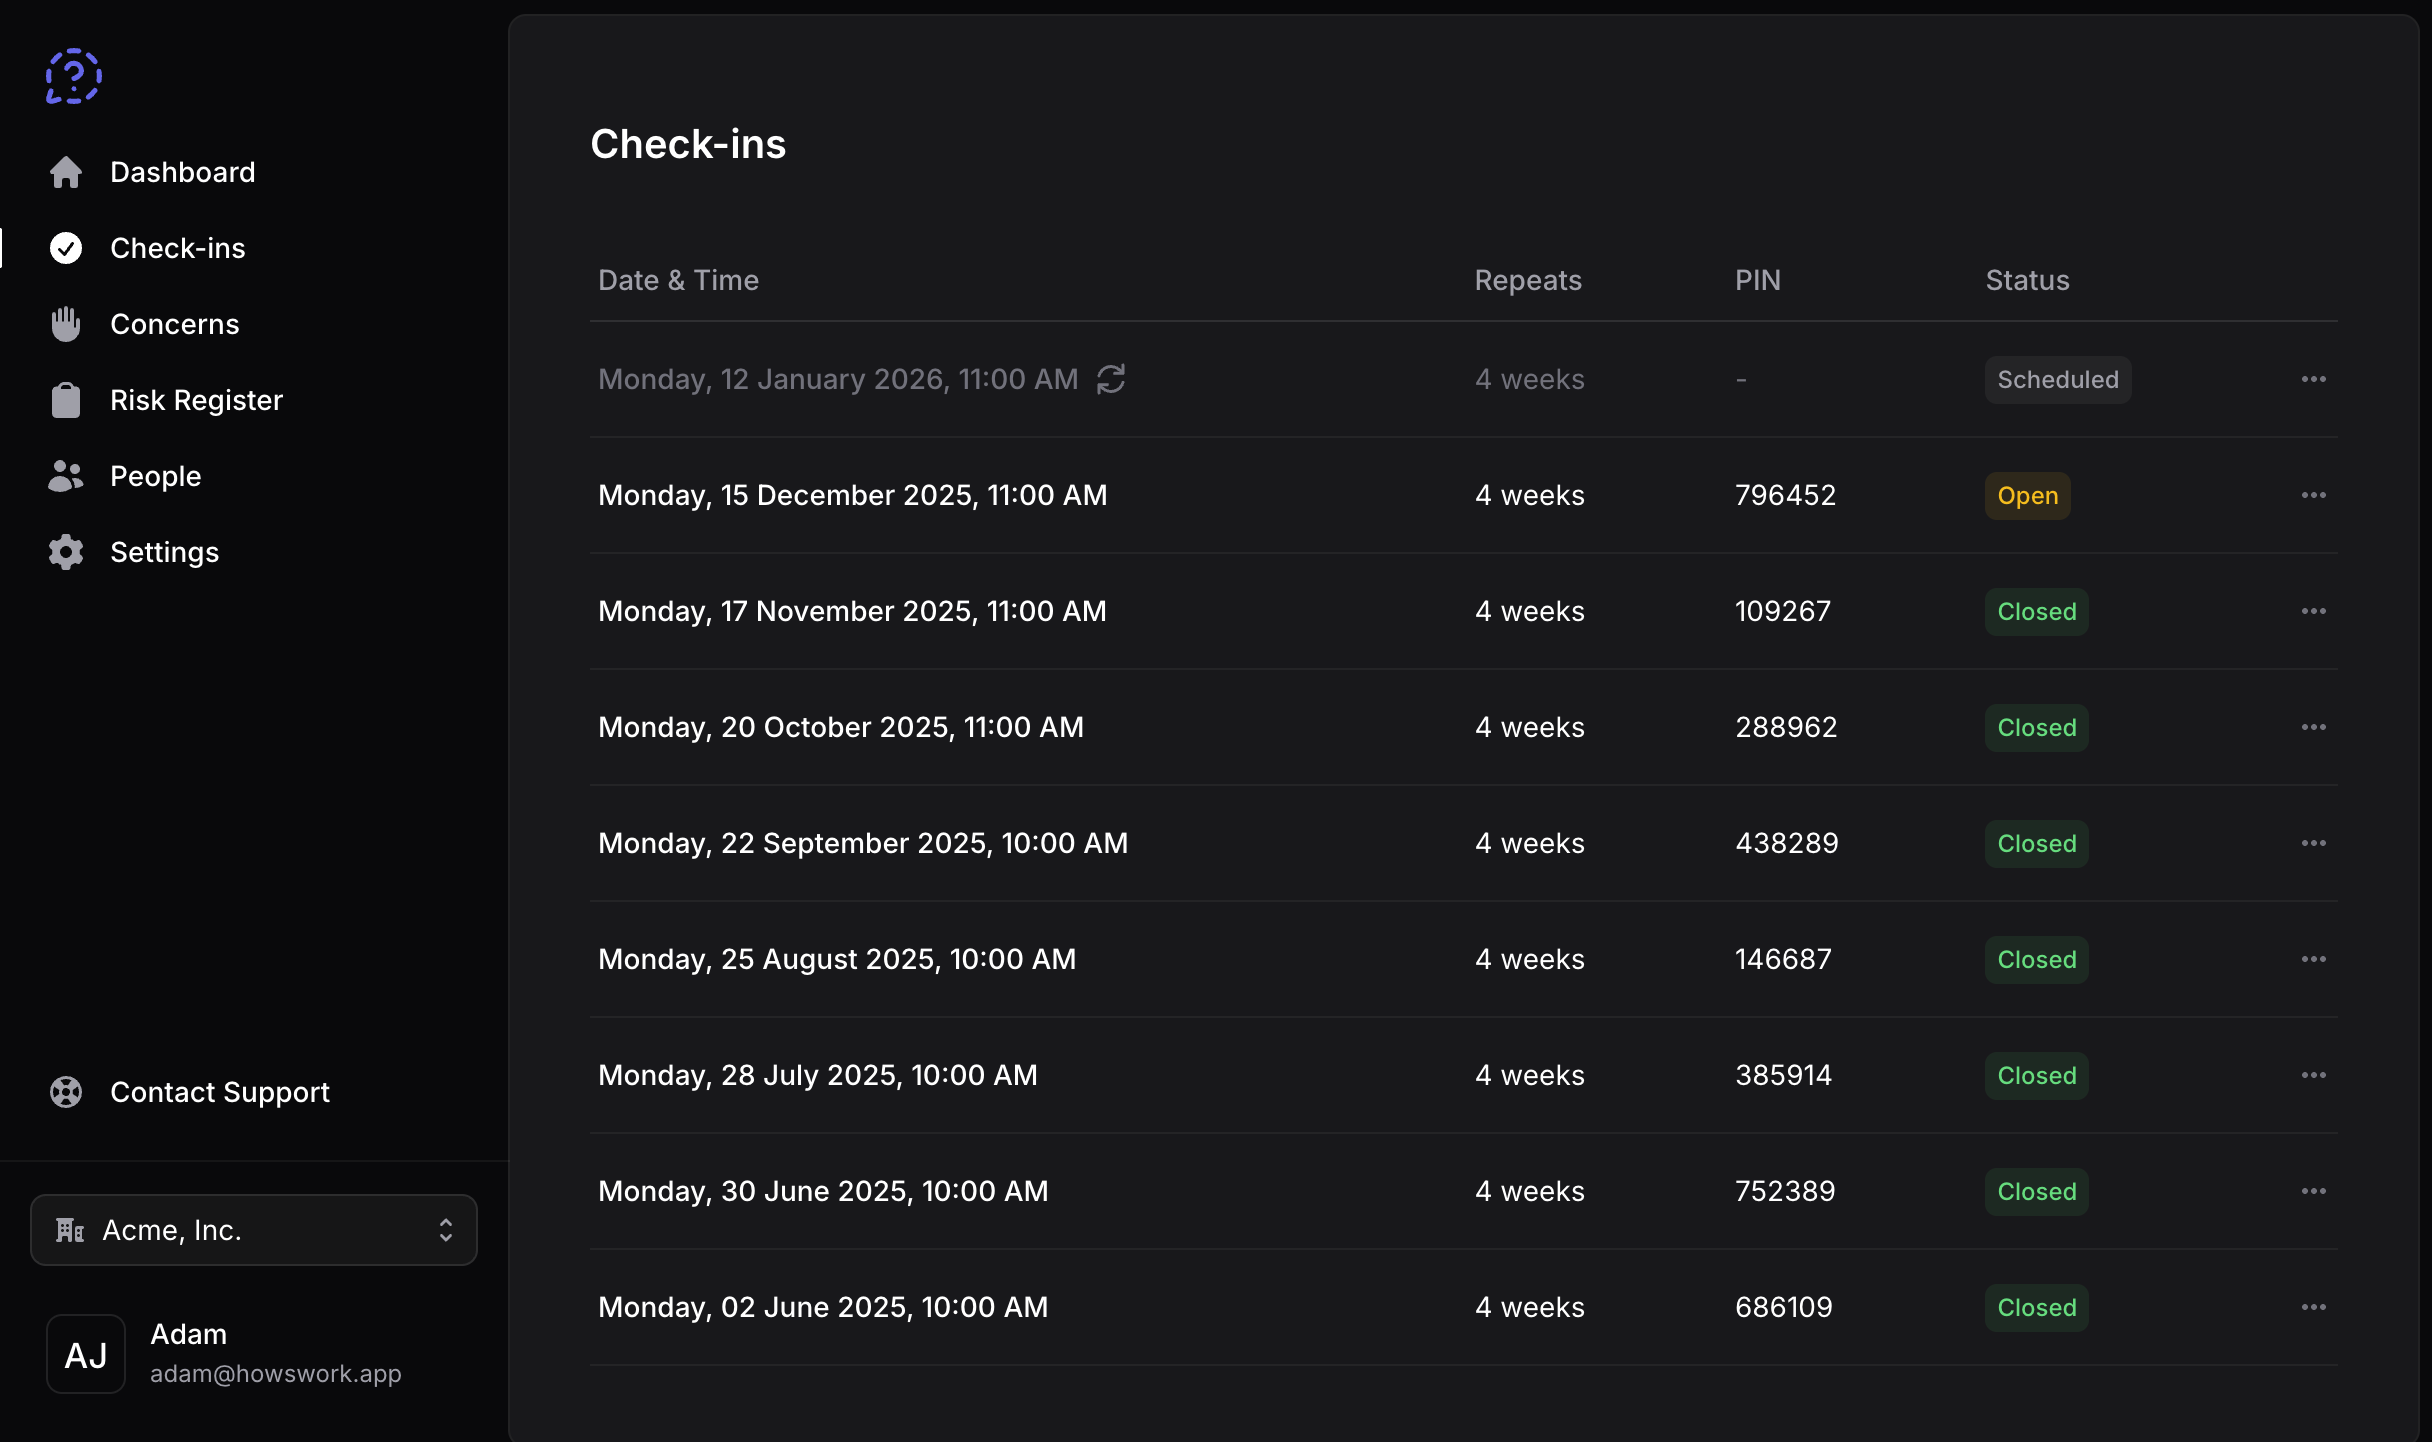
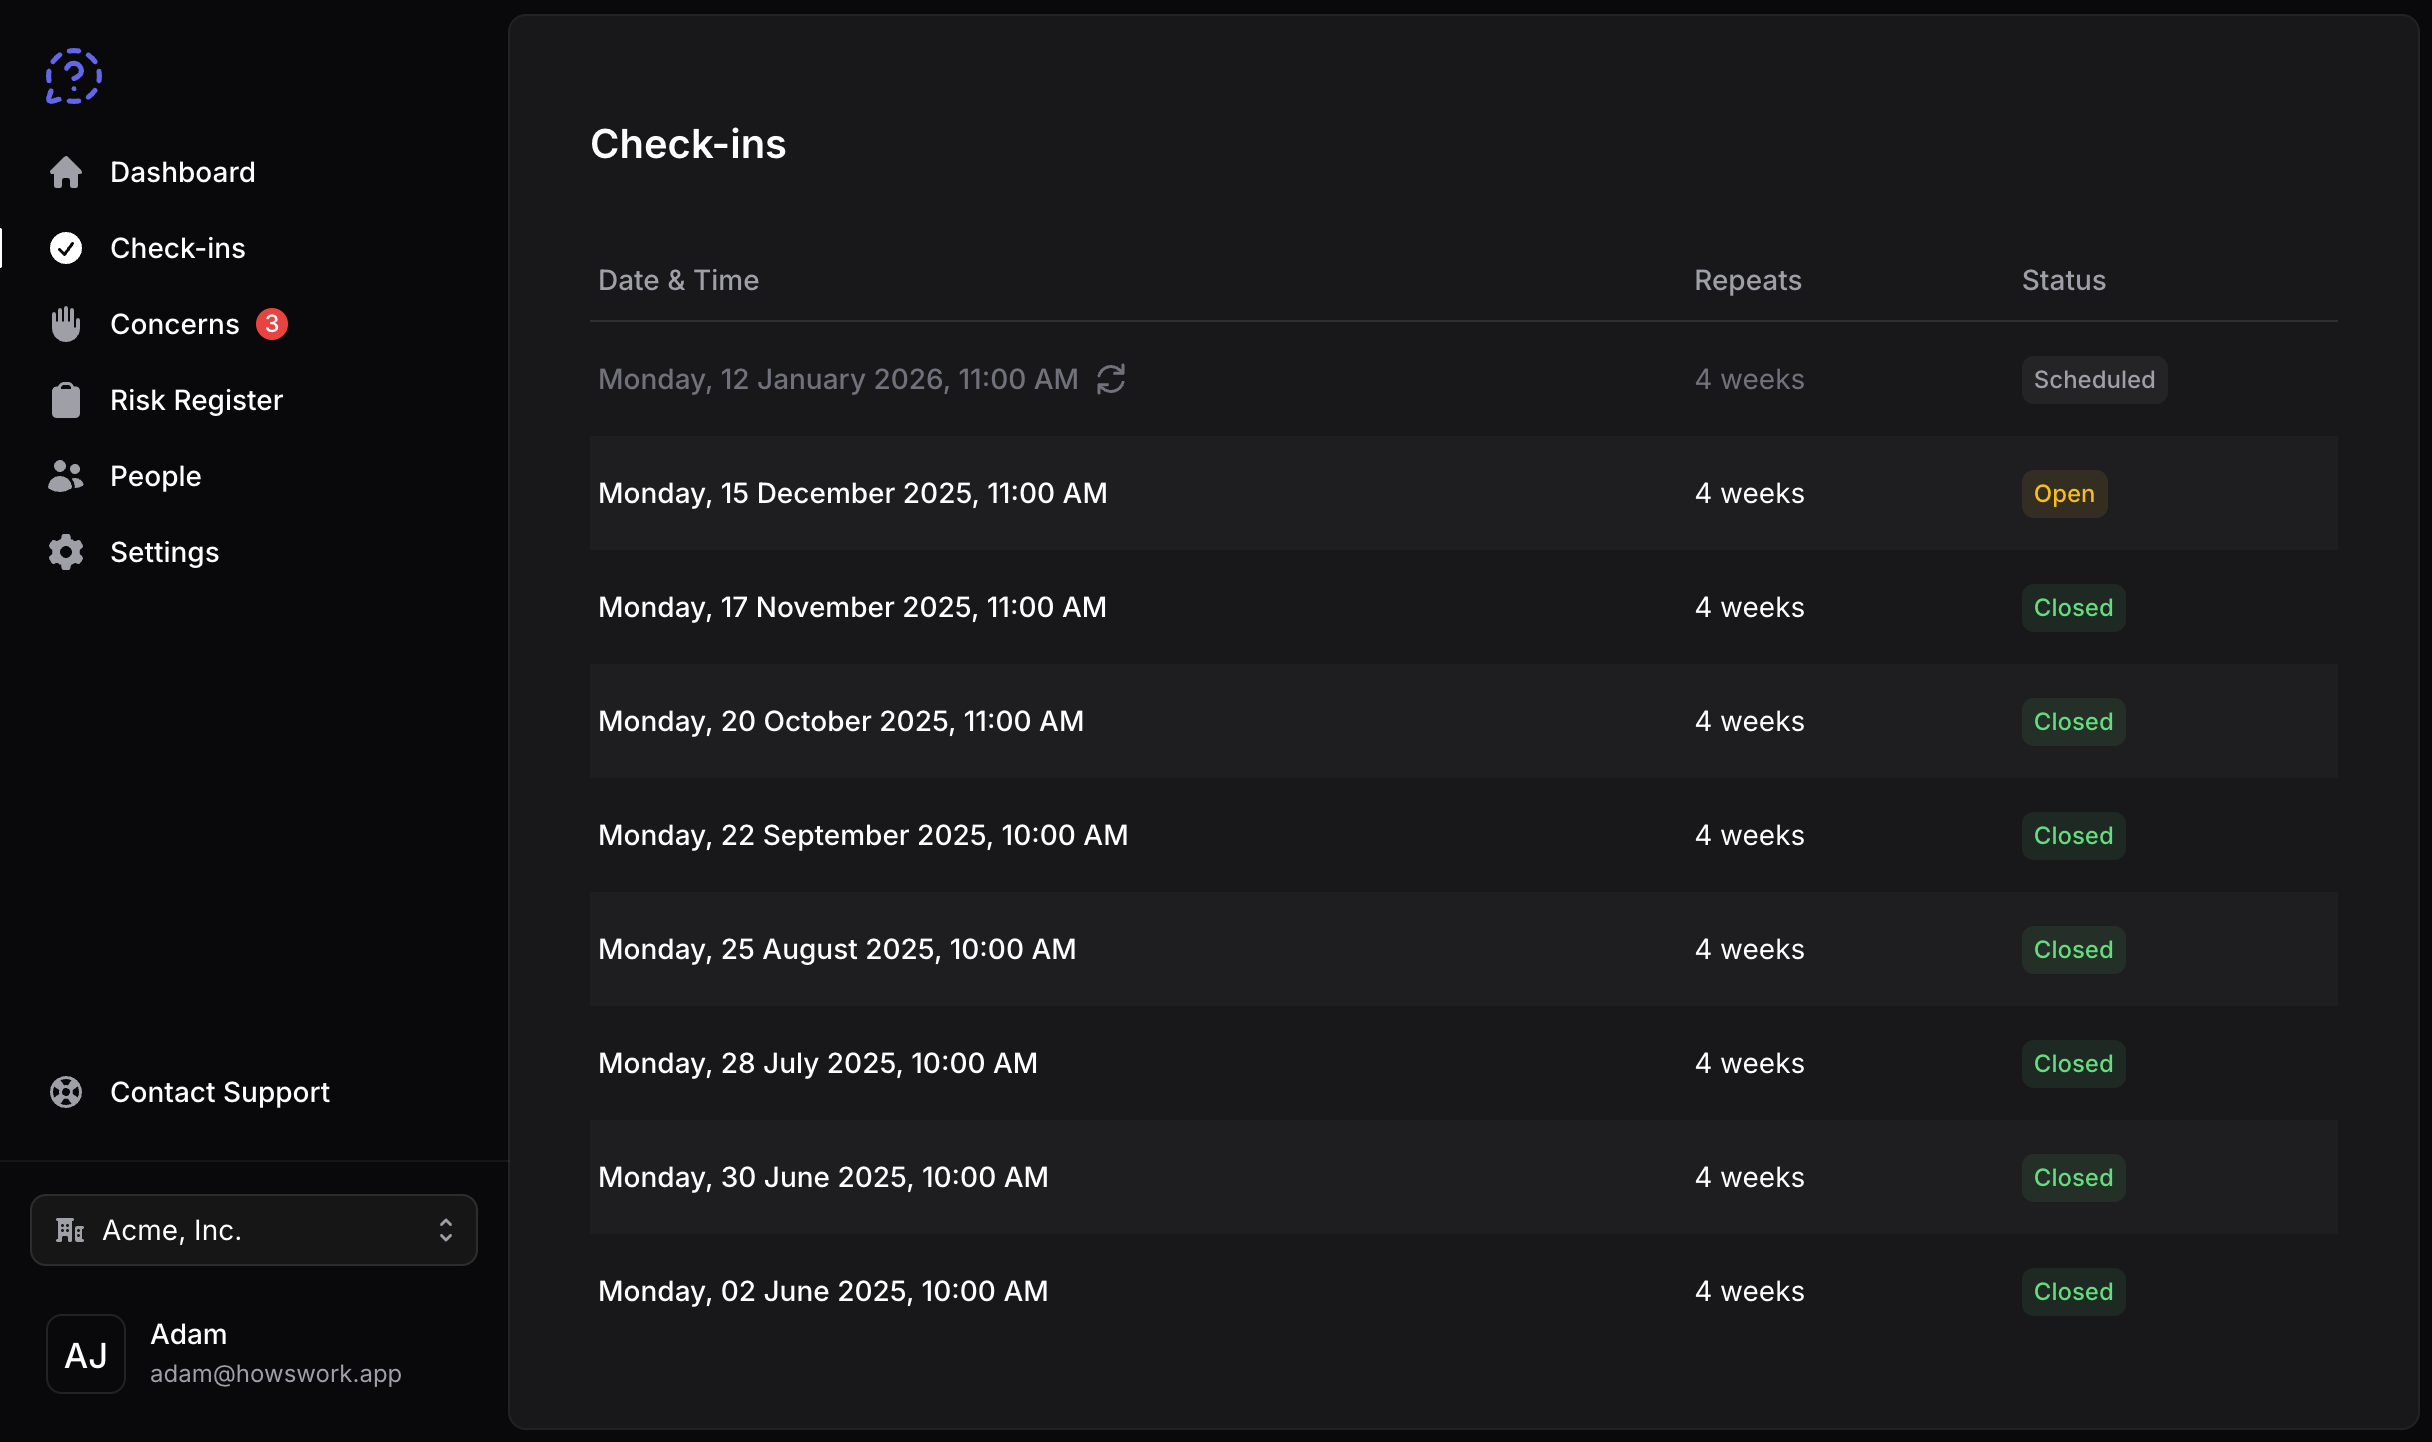
Tweaks

diff --git a/src/app/[slug]/(auth)/resend/actions.ts b/src/app/[slug]/(auth)/resend/actions.ts
@@ -23,7 +23,10 @@ export async function resendPin(formData: FormData) {
     .eq("company_id", formData.get("companyID"))
     .single();
 
-  if (peopleError) return { error: peopleError.message };
+  if (peopleError) {
+    console.error(peopleError.message);
+    return { error: "Internal server error" };
+  }
 
   // Check if user is included in contacts
   if (peopleData.contacts.includes(contact)) {
@@ -35,7 +38,11 @@ export async function resendPin(formData: FormData) {
       .eq("status", "Open")
       .maybeSingle();
 
-    if (checkInError) return { error: checkInError.message };
+    if (checkInError) {
+      console.error(checkInError.message);
+      return { error: "Internal server error" };
+    }
+
     if (!checkInData) return { error: "PIN not available." }; // Only send email or SMS if there is an open check-in
 
     // Get company info
@@ -45,7 +52,11 @@ export async function resendPin(formData: FormData) {
       .eq("id", formData.get("companyID"))
       .single();
 
-    if (companyError) return { error: companyError.message };
+    if (companyError) {
+      console.error(companyError.message);
+      return { error: "Internal server error" };
+    }
+
     const isAus = companyData.timezone.includes("Australia"); // Use .com.au domain
 
     if (contact.includes("@")) {

diff --git a/src/app/api/concerns/comment/route.ts b/src/app/api/concerns/comment/route.ts
@@ -95,7 +95,7 @@ export async function POST(req: NextRequest) {
       .select("email")
       .in(
         "user_id",
-        companyUsersData.map((u) => u.user_id)
+        companyUsersData.map((i) => i.user_id)
       );
 
     if (profilesError) throw new Error(profilesError.message);
@@ -104,7 +104,7 @@ export async function POST(req: NextRequest) {
     try {
       await resend.emails.send({
         from: "HowsWork <no-reply@updates.howswork.app>",
-        to: profilesData.map((p) => p.email),
+        to: profilesData.map((i) => i.email),
         subject: `Comment added to concern at ${companyData.name}`,
         html: `
 <table border="0" width="100%" cellpadding="0" cellspacing="0" role="presentation" align="center">
@@ -137,7 +137,7 @@ export async function POST(req: NextRequest) {
                   width="32"
                 />
                 <p style="font-size: 16px; line-height: 24px; margin-top: 16px; margin-bottom: 16px">
-                  An employee at <strong>Acme, Inc.</strong> has added a follow-up comment to their concern.
+                  An employee at <strong>${companyData}</strong> has added a follow-up comment to their concern.
                 </p>
                 <a
                   href="https://admin.howswork.app/concerns/${concernData.id}"

diff --git a/src/app/api/concerns/route.ts b/src/app/api/concerns/route.ts
@@ -75,7 +75,7 @@ export async function POST(req: NextRequest) {
       .select("email")
       .in(
         "user_id",
-        companyUsersData.map((u) => u.user_id)
+        companyUsersData.map((i) => i.user_id)
       );
 
     if (profilesError) throw new Error(profilesError.message);
@@ -84,7 +84,7 @@ export async function POST(req: NextRequest) {
     try {
       await resend.emails.send({
         from: "HowsWork <no-reply@updates.howswork.app>",
-        to: profilesData.map((p) => p.email),
+        to: profilesData.map((i) => i.email),
         subject: `New workplace concern at ${companyData.name}`,
         html: `
 <table border="0" width="100%" cellpadding="0" cellspacing="0" role="presentation" align="center">
@@ -117,7 +117,7 @@ export async function POST(req: NextRequest) {
                   width="32"
                 />
                 <p style="font-size: 16px; line-height: 24px; margin-top: 16px; margin-bottom: 16px">
-                  An employee at <strong>Acme, Inc.</strong> has raised a concern.
+                  An employee at <strong>${companyData}</strong> has raised a concern.
                 </p>
                 <a
                   href="https://admin.howswork.app/concerns/${insertConcernData.id}"

diff --git a/src/app/[slug]/(protected)/check-ins/page.tsx b/src/app/[slug]/(protected)/check-ins/page.tsx
@@ -71,7 +71,7 @@ export default function CheckIns() {
 
       {checkIns && (
         <>
-          <Table className="mt-8 [--gutter:--spacing(6)] sm:[--gutter:--spacing(8)]">
+          <Table striped className="mt-8 [--gutter:--spacing(6)] sm:[--gutter:--spacing(8)]">
             <TableHead>
               <TableRow>
                 <TableHeader>Date</TableHeader>
